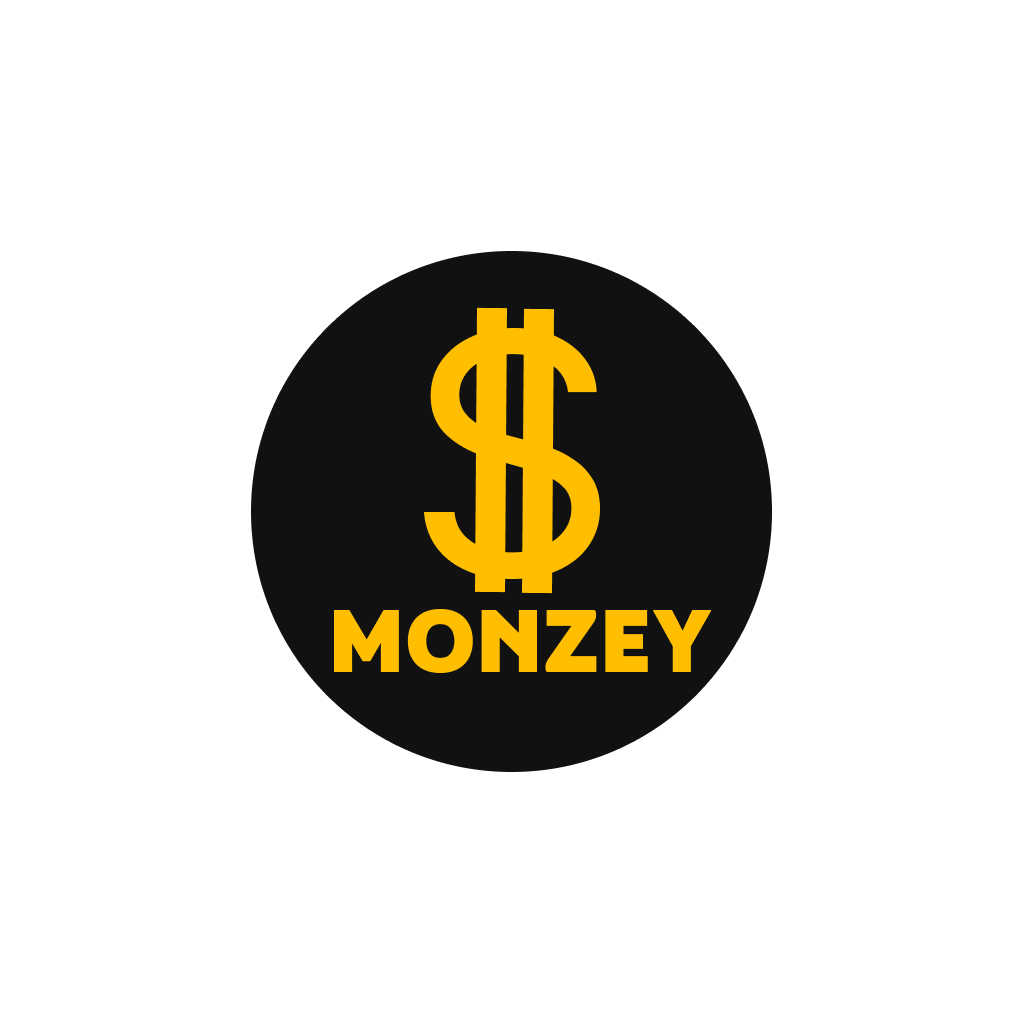
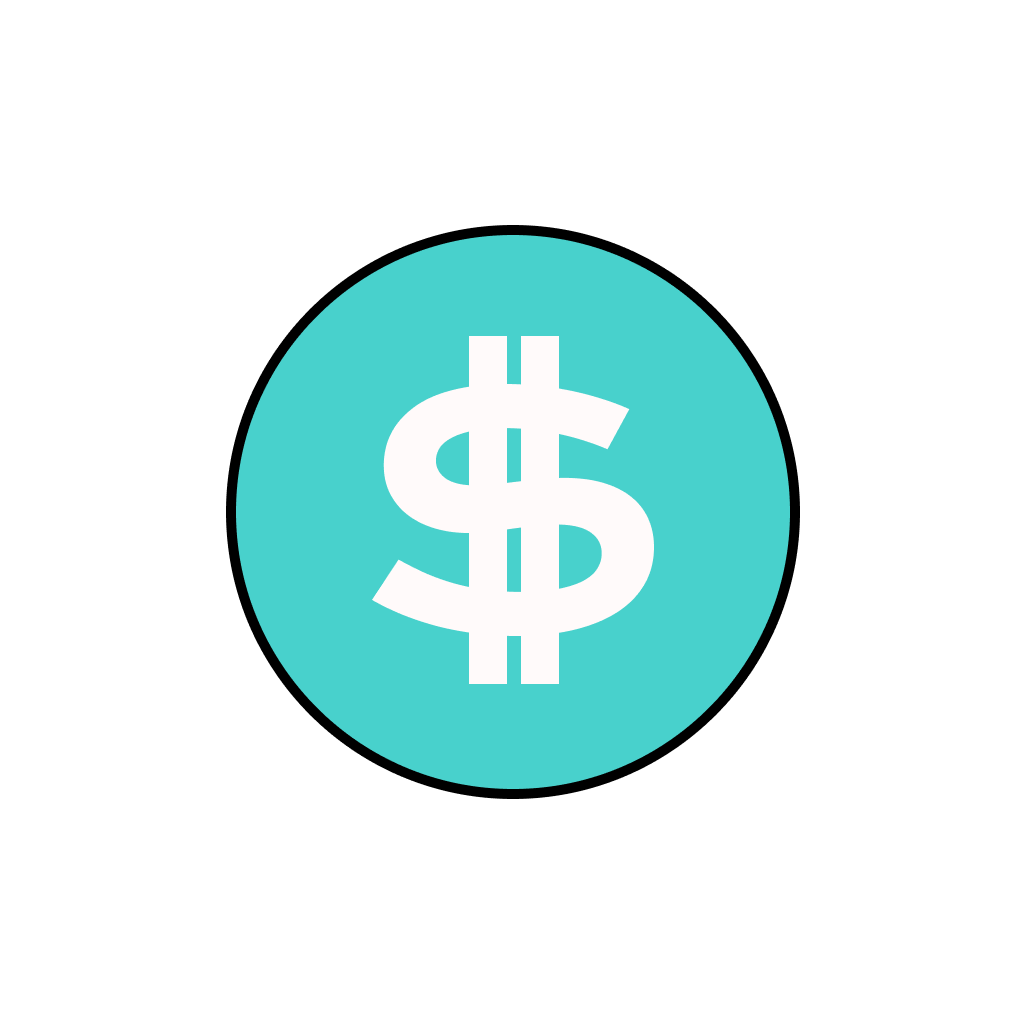
wip: prepare for prod

Changed region(s): [[0.2188, 0.2188, 0.7812, 0.7812]]

diff --git a/utils/color.ts b/utils/color.ts
@@ -1,19 +1,20 @@
 export enum COLORS {
-  background = "#111111",
-  text = "white",
-  border = "white",
-  tabIcon = "white",
-  tabIconFocused = "#FFBF00",
-  tabBackground = "#111111",
-  summaryBackground = "#181818",
-  summaryText = "white",
-  chartLabel = "white",
-  chart = "#FFBF00",
-  expense = "white",
-  income = "white",
-  recordBackground = "#181818",
-  recordIcon = "white",
-  remove = "#FFBF00",
-  button = "#FFBF00",
-  buttonText = "#111111",
+  background = "snow",
+  text = "black",
+  border = "black",
+  tabIcon = "black",
+  tabIconFocused = "mediumturquoise",
+  tabBackground = "ghostwhite",
+  summaryBackground = "snow",
+  summaryText = "black",
+  chartLabel = "black",
+  chart = "mediumturquoise",
+  expense = "firebrick",
+  income = "royalblue",
+  recordBackground = "snow",
+  recordIcon = "black",
+  archive = "mediumturquoise",
+  remove = "firebrick",
+  button = "mediumturquoise",
+  buttonText = "snow",
 }

diff --git a/components/wrapper.tsx b/components/wrapper.tsx
@@ -86,7 +86,7 @@ const Wrapper = () => {
               case "Archive":
                 iconName = focused ? "archive" : "archive";
                 break;
-              case "RecordList":
+              case "Transactions":
                 iconName = focused ? "list-alt" : "list";
                 break;
               case "Chart":
@@ -127,7 +127,7 @@ const Wrapper = () => {
         <Tab.Screen name="Archive">
           {() => <Archive summaries={summaries} setSummaries={setSummaries} />}
         </Tab.Screen>
-        <Tab.Screen name="RecordList">
+        <Tab.Screen name="Transactions">
           {() => (
             <RecordList
               records={records}

diff --git a/components/common/summary-box.tsx b/components/common/summary-box.tsx
@@ -73,7 +73,7 @@ const SummaryBox = ({
       </Text>
       {!archive && summary.records?.length > 0 && (
         <Pressable style={styles.archiveButton} onPress={handlePressArchive}>
-          <Feather name="archive" size={28} color={COLORS.remove} />
+          <Feather name="archive" size={28} color={COLORS.archive} />
         </Pressable>
       )}
       {archive && summary.status === SummaryStatus.ARCHIVED && (
